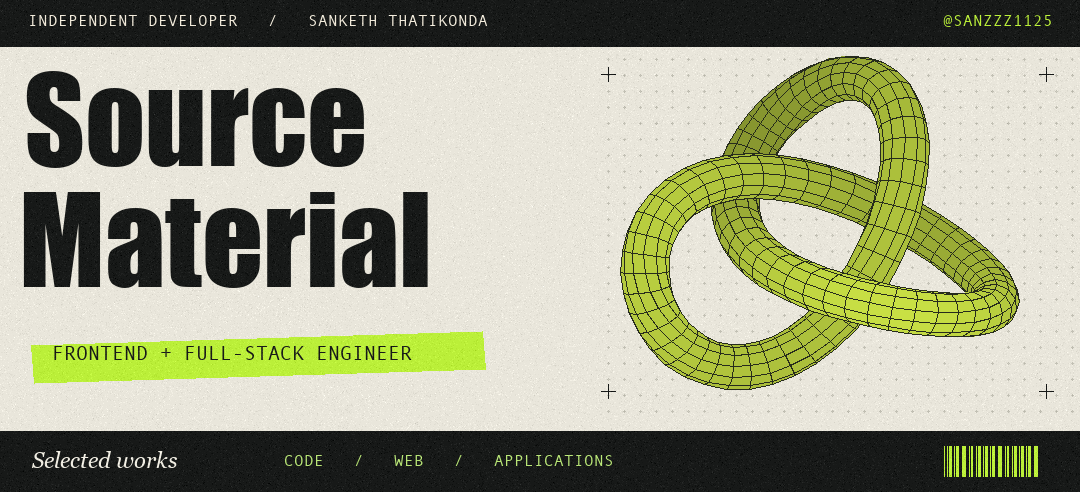
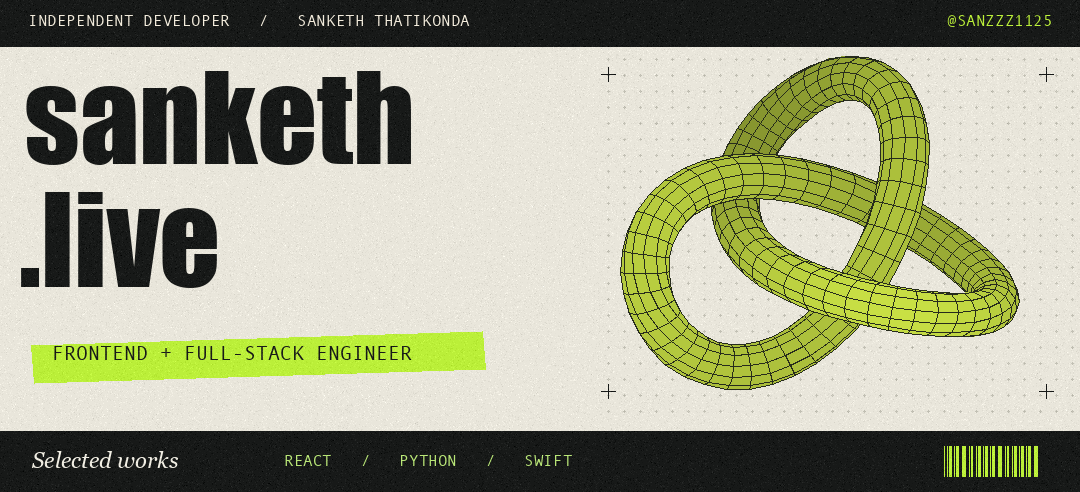
Use sanketh.live cover and feature Biomvira on the profile

diff --git a/README.md b/README.md
@@ -1,4 +1,4 @@
-<a href="https://sanketh.live/"><picture><source media="(prefers-reduced-motion: reduce)" srcset="./assets/cover.png"><img src="./assets/cover.gif" width="100%" alt="Source Material — Sanketh Thatikonda, frontend and full-stack engineer. A rotating wireframe trefoil on a printed poster."></picture></a>
+<a href="https://sanketh.live/"><picture><source media="(prefers-reduced-motion: reduce)" srcset="./assets/cover.png"><img src="./assets/cover.gif" width="100%" alt="sanketh.live — Sanketh Thatikonda, frontend and full-stack engineer working with React, Python, and Swift. A rotating wireframe trefoil on a printed poster."></picture></a>
 
 <a href="https://github.com/Sanzzz1125#contribution-activity"><img src="./assets/activity.svg" width="100%" alt="GitHub contributions this year and activity over the latest 26 weeks"></a>
 
@@ -6,10 +6,10 @@
 
 <p><a href="https://github.com/Sanzzz1125/fullStackCompass"><img src="./assets/p1.png" width="49%" alt="fullStackCompass — Learning roadmap"></a> <a href="https://github.com/Sanzzz1125/CodeSync"><img src="./assets/p2.png" width="49%" alt="CodeSync — Developer tools"></a></p>
 
-<p><a href="https://github.com/Sanzzz1125/campus-hub"><img src="./assets/p3.png" width="49%" alt="Campus Hub — Campus resources"></a> <a href="https://github.com/Sanzzz1125/Biomvira"><img src="./assets/p4.png" width="49%" alt="Biomvira — Nutrition"></a></p>
+<p><a href="https://github.com/Sanzzz1125/campus-hub"><img src="./assets/p3.png" width="49%" alt="Campus Hub — Campus resources"></a> <a href="https://github.com/Sanzzz1125/Biomvira"><img src="./assets/p4.png" width="49%" alt="Biomvira — Indian meal planning from lab reports"></a></p>
 
 <p><a href="https://github.com/Sanzzz1125/Notchly"><img src="./assets/p5.png" width="49%" alt="Notchly — macOS"></a> <a href="https://github.com/Sanzzz1125/Campus-Reporting-System"><img src="./assets/p6.png" width="49%" alt="Campus Reporting — Campus tools"></a></p>
 
 **Languages** · JavaScript · Python · TypeScript · Java · Swift · HTML
 
-[Portfolio](https://sanketh.live/) · [FullStackCompass demo](https://www.fullstackcompass.in/) · [Campus Hub demo](https://sanzzz1125.github.io/campus-hub/) · [All repositories](https://github.com/Sanzzz1125?tab=repositories)
+[Portfolio](https://sanketh.live/) · [FullStackCompass demo](https://www.fullstackcompass.in/) · [Campus Hub demo](https://sanzzz1125.github.io/campus-hub/) · [Biomvira demo](https://biomvira.vercel.app/) · [All repositories](https://github.com/Sanzzz1125?tab=repositories)
